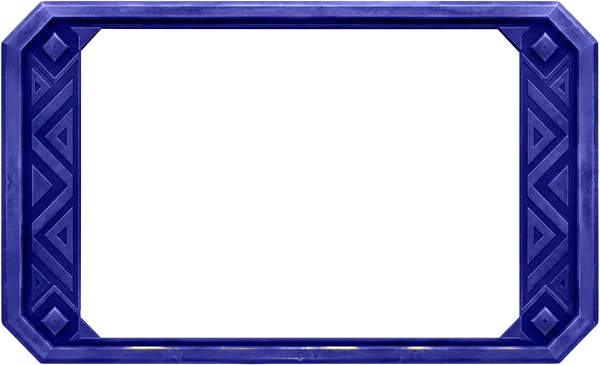
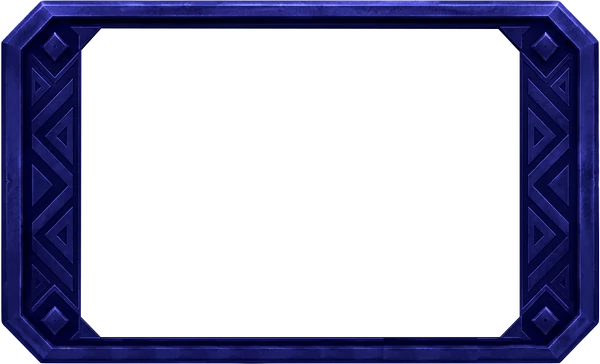
Blue Gate frames from the new export, a soft focus halo, day/night badges, the Stand burst without brass
The blue Gate frames are the latest export (Archive_5 lit frame, the separate
dark off frame), cropped and scaled the same way as the gold set.

A piece's turn is shown by a diffuse halo that breathes around the whole tile
rather than a tight drop-shadow or the old box-shadow ring, which read as a
gold box behind the frame. Inside tiles get the same halo (their border stays
in the owner's colour) and the pulsing ring is gone.

Sundown Town's curfew and night pills are one engraved badge on the title band
(a drawn moon, NIGHT | CURFEW on navy; a drawn sun, DAY on parchment), also in
the Location sheet's caption.

The Stand on Business burst clip is remixed without the orchestral brass layer:
the boom, the airbomb, the crowd and the shimmer remain.

Claude-Session: https://claude.ai/code/session_01CdCWBBELLp3cWMWqqhgQtC

diff --git a/src/ui/theme.css b/src/ui/theme.css
@@ -1929,9 +1929,29 @@ body.board-shake .battlefield { animation: board-shake 0.32s cubic-bezier(0.36, 
 .gate-slot.gf.filled .pic.focus { animation: none; }
 .gate-slot.gf.filled:has(.pic.focus) { animation: focus-glow 900ms ease-in-out infinite; }
 @keyframes focus-glow {
-  0%, 100% { filter: drop-shadow(0 0 4px rgba(233, 185, 58, 0.9)) drop-shadow(0 0 12px rgba(233, 185, 58, 0.55)); }
-  50% { filter: drop-shadow(0 0 6px rgba(255, 242, 196, 1)) drop-shadow(0 0 22px rgba(233, 185, 58, 0.95)); }
+  0%, 100% { filter: drop-shadow(0 0 12px rgba(255, 236, 190, 0.7)) drop-shadow(0 0 28px rgba(255, 220, 150, 0.45)); }
+  50% { filter: drop-shadow(0 0 18px rgba(255, 246, 220, 0.95)) drop-shadow(0 0 42px rgba(255, 220, 150, 0.7)); }
 }
 /* A fallen Threat's NEUTRALIZED stamp is wider than its tile: it overhangs rather than being cut. */
 .threat-tile.gone, .threat-tile:has(> .stamp) { overflow: visible; }
 .threat-tile > .stamp { width: max-content; max-width: none; z-index: 9; }
+
+/* Its turn: a soft halo that breathes around the whole piece, never a crisp ring (a tight shadow or a
+   box-shadow ring reads as a box behind the frame). Inside tiles and framed Gate tiles get the same treatment. */
+.tile-glow.focus { transform: scale(1.08); filter: drop-shadow(0 0 14px rgba(255, 236, 190, 0.8)) drop-shadow(0 0 30px rgba(255, 220, 150, 0.5)); }
+.pic.focus { animation: none; box-shadow: none; }
+.slot.filled:has(.pic.focus) { --bc: var(--gold); animation: focus-glow 900ms ease-in-out infinite; }
+.slot.filled.B:has(.pic.focus) { --bc: var(--cB); border-color: var(--cB); }
+
+/* Day and night at a curfew Location: an engraved badge on the title band instead of pills. Night carries
+   the curfew with it (nobody relocates out until morning); day is the all-clear. */
+.sky-tag { display: inline-flex; align-items: center; gap: 5px; margin-left: 8px; padding: 2px 8px 2px 6px; border: 1px solid; border-radius: 3px; font-family: var(--display); font-weight: 700; font-size: clamp(8px, 0.72vw, 10.5px); letter-spacing: 0.14em; text-transform: uppercase; line-height: 1.25; white-space: nowrap; text-shadow: none; }
+.sky-tag .sky-ico { width: 1.15em; height: 1.15em; flex: none; }
+.sky-tag i { font-style: normal; margin-left: 2px; padding-left: 7px; border-left: 1px solid rgba(255, 255, 255, 0.28); }
+.sky-tag.night { color: #e4e9ff; border-color: #6d7fc4; background: linear-gradient(180deg, #223270, #101b4a); box-shadow: inset 0 0 0 1px rgba(255, 255, 255, 0.1), 0 1px 2px rgba(0, 0, 0, 0.4); }
+.sky-tag.night .sky-ico { color: #f6d77a; }
+.sky-tag.night i { color: #ffb8b2; }
+.sky-tag.day { color: #6a4d10; border-color: #b8901f; background: linear-gradient(180deg, #fbf3dc, #eddcb0); box-shadow: inset 0 0 0 1px rgba(255, 255, 255, 0.65), 0 1px 2px rgba(0, 0, 0, 0.18); }
+.sky-tag.day .sky-ico { color: #d29a1c; }
+.location .art .sky-tag { flex: none; }
+.sheet-art-cap .sky-tag { margin-left: auto; font-size: 10px; }

diff --git a/src/ui/audio/sfx.ts b/src/ui/audio/sfx.ts
@@ -88,7 +88,7 @@ export const SFX_EVENTS: Record<SfxName, string> = {
   'dig.keep': 'The dearer story is kept: the card lights up and is chosen (the select climb with a shimmer).',
   'dig.bury': 'The other cards go back to the bottom of the deck: a flick and a soft thud.',
   stand: 'Stand on Business: the stakes rise.',
-  'stand.button': 'The Stand on Business button, Marvel Snap style: stomp, stomp, clap, and on the clap the bell, a boom and a roar that carries on for a few seconds.',
+  'stand.button': 'The Stand on Business button, Marvel Snap style: stomp, stomp, clap, and on the clap the bell, a boom and the crowd\'s roar carrying on for a few seconds. No horns.',
   lastword: 'The Last Word begins.',
   lost: 'A Location is Lost, or someone changes sides.',
   win: 'You win the match: drums and the bell.',
@@ -139,7 +139,7 @@ export const SFX_FILES: Record<SfxName, Layer[]> = {
   'dig.keep': [{ files: ['select'], gain: 0.55 }, { files: ['trail'], gain: 0.25, at: 80 }], // "you have been chosen": the select climb, a shimmer under it
   'dig.bury': [{ files: ['card-back'], gain: 0.5 }, { files: ['thud-soft'], gain: 0.4, at: 120 }],
   stand: [{ files: ['stand-thud'], gain: 0.9 }, { files: ['stand-drums'], gain: 0.8 }],
-  'stand.button': [{ files: ['stand-stomp'], gain: 0.9 }, { files: ['stand-bell'], gain: 0.7, at: 800 }, { files: ['stand-burst'], gain: 0.85, at: 800 }], // stomp, stomp, clap ... and on the clap the ring bell, the boom, the brass and the crowd carrying on
+  'stand.button': [{ files: ['stand-stomp'], gain: 0.9 }, { files: ['stand-bell'], gain: 0.7, at: 800 }, { files: ['stand-burst'], gain: 0.85, at: 800 }], // stomp, stomp, clap ... and on the clap the ring bell, the boom and the crowd carrying on (no brass)
   lastword: [{ files: ['lastword'], gain: 0.8 }],
   lost: [{ files: ['lost'], gain: 0.65 }],
   win: [{ files: ['stand-drums'], gain: 0.85 }, { files: ['lastword'], gain: 0.7, at: 220 }], // drums and the bell: gravity, not a fanfare

diff --git a/src/ui/components/Battlefield.tsx b/src/ui/components/Battlefield.tsx
@@ -17,6 +17,7 @@ import {
 import { initials, locationName, threatLabel, useDisplay } from '../display';
 import { Pic } from './CardFace';
 import { Art } from './Art';
+import { SkyTag } from './Sky';
 import { artUrl } from '../art';
 import { assistButtons } from '../assist';
 import { charDef, confrontForce, threatForceNeeded, isNight, lockReason, LOCATION_BY_ID, CARD_BY_ID, TEAM_UP_BY_ID } from '../../engine';
@@ -578,9 +579,7 @@ export function Battlefield(props: BattlefieldProps) {
                 {!loc.lost && loc.treatyTorn && view.turn <= loc.treatyTorn.until && <span className="lost-tag treaty" {...tip(HINTS.treatyTorn)}>NO TREATY</span>}
                 {!loc.lost && loc.teamUps?.map((t) => <span key={`${t.id}-${t.owner}`} className={`lost-tag teamup ${t.owner === me ? 'mine' : 'theirs'}`} {...tip(`Team-up, ${TEAM_UP_BY_ID[t.id].name} (${view.players[t.owner].handle}): ${TEAM_UP_BY_ID[t.id].text} It holds while both remain Inside.`)}>{TEAM_UP_BY_ID[t.id].name.toUpperCase()}</span>)}
                 {!loc.lost && loc.oath && loc.threats.some((t) => t.uid === loc.oath!.threatUid) && <span className="lost-tag oath" {...tip(HINTS.oath)}>OATH</span>}
-                {!loc.lost && loc.revealed && curfewOn(view, loc.index) && <span className="lost-tag curfew" {...tip(HINTS.locked)}>CURFEW</span>}
-                {!loc.lost && hasCurfew && !curfewOn(view, loc.index) && <span className="lost-tag daytag" {...tip(HINTS.dayNight)}>☀ DAY</span>}
-                {!loc.lost && nightHere && <span className="lost-tag nighttag" {...tip(HINTS.dayNight)}>🌙 NIGHT</span>}
+                {!loc.lost && hasCurfew && <SkyTag night={nightHere} />}
                 {loc.sanctified && <span className="lost-tag sanct">OBATALA</span>}
                 {summon && <span className="summon-tag">{summon}</span>}
               </div>

diff --git a/src/ui/components/Sky.tsx b/src/ui/components/Sky.tsx
@@ -1,0 +1,41 @@
+import { HINTS, tip } from '../tip';
+
+/** A crescent moon, drawn rather than an emoji so it matches the frames. */
+export function MoonIcon() {
+  return (
+    <svg className="sky-ico" viewBox="0 0 24 24" aria-hidden="true">
+      <path d="M14.5 2.5a9.5 9.5 0 1 0 7 15.8A8 8 0 0 1 14.5 2.5z" fill="currentColor" />
+      <circle cx="18.5" cy="5.5" r="1" fill="currentColor" />
+      <circle cx="21.5" cy="9" r="0.7" fill="currentColor" />
+    </svg>
+  );
+}
+
+/** A sun with eight rays. */
+export function SunIcon() {
+  return (
+    <svg className="sky-ico" viewBox="0 0 24 24" aria-hidden="true" fill="none" stroke="currentColor" strokeWidth="2.2" strokeLinecap="round">
+      <circle cx="12" cy="12" r="4" fill="currentColor" stroke="none" />
+      <path d="M12 2.5v3M12 18.5v3M2.5 12h3M18.5 12h3M5.3 5.3l2.1 2.1M16.6 16.6l2.1 2.1M5.3 18.7l2.1-2.1M16.6 7.4l2.1-2.1" />
+    </svg>
+  );
+}
+
+/**
+ * The sky over a curfew Location: an engraved badge on the title band. Night carries the curfew with it
+ * (nobody relocates out until morning); day is the all-clear.
+ */
+export function SkyTag({ night }: { night: boolean }) {
+  return night ? (
+    <span className="sky-tag night" {...tip(HINTS.locked)}>
+      <MoonIcon />
+      Night
+      <i>Curfew</i>
+    </span>
+  ) : (
+    <span className="sky-tag day" {...tip(HINTS.dayNight)}>
+      <SunIcon />
+      Day
+    </span>
+  );
+}

diff --git a/src/ui/components/Sheets.tsx b/src/ui/components/Sheets.tsx
@@ -22,6 +22,7 @@ import { CardFace } from './CardFace';
 import { CodexSheet } from './CodexSheet';
 import { liveAbilities } from './Battlefield';
 import { Art } from './Art';
+import { SkyTag } from './Sky';
 
 export function Sheet({ children, onClose, title }: { children: ReactNode; onClose: () => void; title?: string }) {
   useEffect(() => {
@@ -164,7 +165,7 @@ export function LocationSheet({ view, index, onClose }: { view: GameState; index
           <div className="sheet-art-cap">
             <span>{def.era}</span>
             {def.region && <span className="muted">{def.region === 'americas' ? 'The Americas' : def.region === 'africa' ? 'Africa' : 'The Atlantic'}</span>}
-            {def.curfew && <span className={isNight(view) ? 'nighttag' : 'daytag'}>{isNight(view) ? '🌙 Night' : '☀ Day'}</span>}
+            {def.curfew && <SkyTag night={isNight(view)} />}
           </div>
         </div>
       )}

diff --git a/docs/copy.md b/docs/copy.md
@@ -1603,19 +1603,19 @@ export function TallySheet({ view, me, onResult, onBoard }: { view: GameState; m
 - ${def.name} waits to resolve.
 - strip ${def.curse ? 'curse' : 'event'}
 - gates-strip ${owner === me ? 'mine' : 'theirs'}
-- url("${pageUrl(artUrl('frames', 'gate-gold-off', 'webp'))}")
-- url("${pageUrl(artUrl('frames', 'gate-gold-on', 'webp'))}")
+- url("${pageUrl(artUrl('frames', owner === me ? 'gate-gold-off' : 'gate-blue-off', 'webp'))}")
+- url("${pageUrl(artUrl('frames', owner === me ? 'gate-gold-on' : 'gate-blue-on', 'webp'))}")
 - gates-left ${gOk ? 'drop-ok' : ''} ${gOver ? 'drop-over' : ''}
-- gate-slot ${owner === me ? 'gf' : ''} ${i === nextOpen ? 'open' : 'later'}
+- gate-slot gf ${i === nextOpen ? 'open' : 'later'}
 - Opens once the slot before it is taken.
 - The Ancestors foresee: ${fd.name} ${s.seen.why}.
-- gate-slot reserved ${owner === me ? 'gf' : ''} ${s.held.through ? 'through' : ''} ${s.held.arriving ? 'arriving' : ''}
+- gate-slot reserved gf ${s.held.through ? 'through' : ''} ${s.held.arriving ? 'arriving' : ''}
 - ${hd.name} ${s.held.why} when you Lock It In.
 - ${hd.name} ${s.held.why}: every arrival is placed at the Gates before anyone walks Inside, so this slot is taken this turn.
 - ${hd.name} ${s.held.why} when you Lock It In. The slot stays taken until then.
 - strip leaving ${s.held.arriving ? 'arriving' : ''}
 - tile-glow owner-${owner} ${focus?.includes(s.uid) ? 'focus' : ''}
-- gate-slot filled ${owner === me ? 'gf' : ''} owner-${owner} ${planned || moving ? 'preview' : ''} ${flash === 'enter' && owner === me && s.ready ? 'ftue-flash' : ''} ${fx?.hidden.includes(s.uid) ? 'fx-hidden' : ''}
+- gate-slot filled gf owner-${owner} ${planned || moving ? 'preview' : ''} ${flash === 'enter' && owner === me && s.ready ? 'ftue-flash' : ''} ${fx?.hidden.includes(s.uid) ? 'fx-hidden' : ''}
 - stamp verdict ${fx.stamp.tone ?? 'hit'}
 - Your Event slot here: drop an Event card on this Location. One per Location per turn. A deck carries at most two Events: you have ${evLeft} of ${evTotal} left.
 - ev-count ${evLeft === 0 ? 'spent' : ''}
